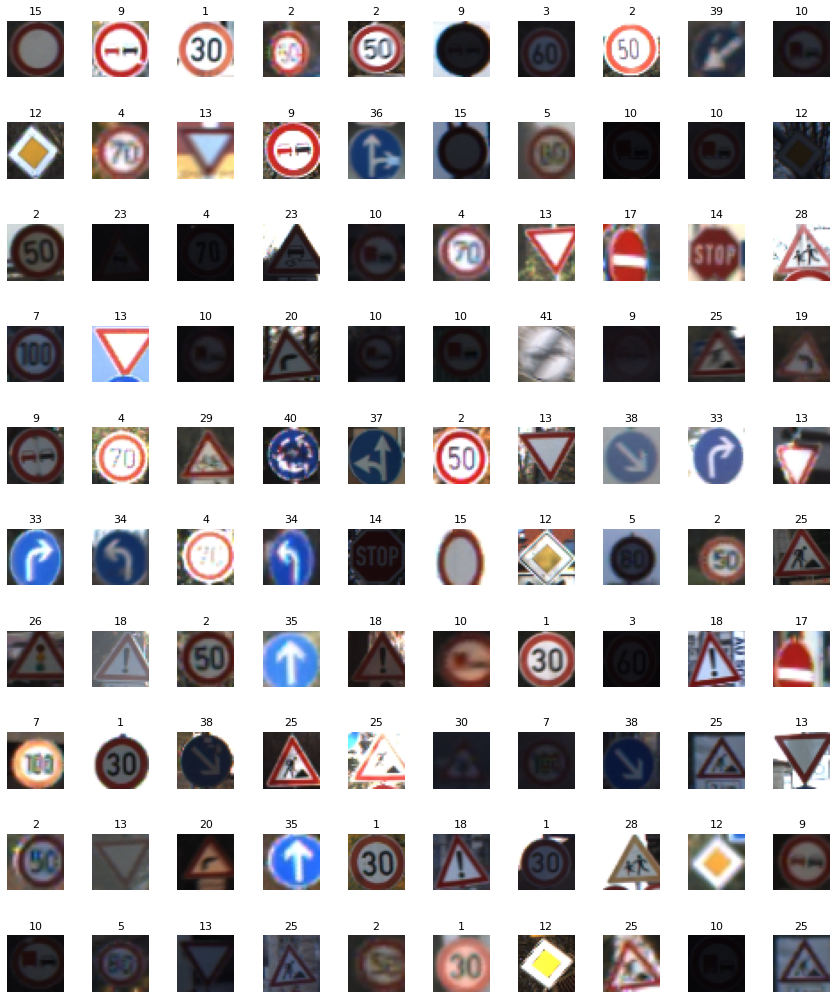
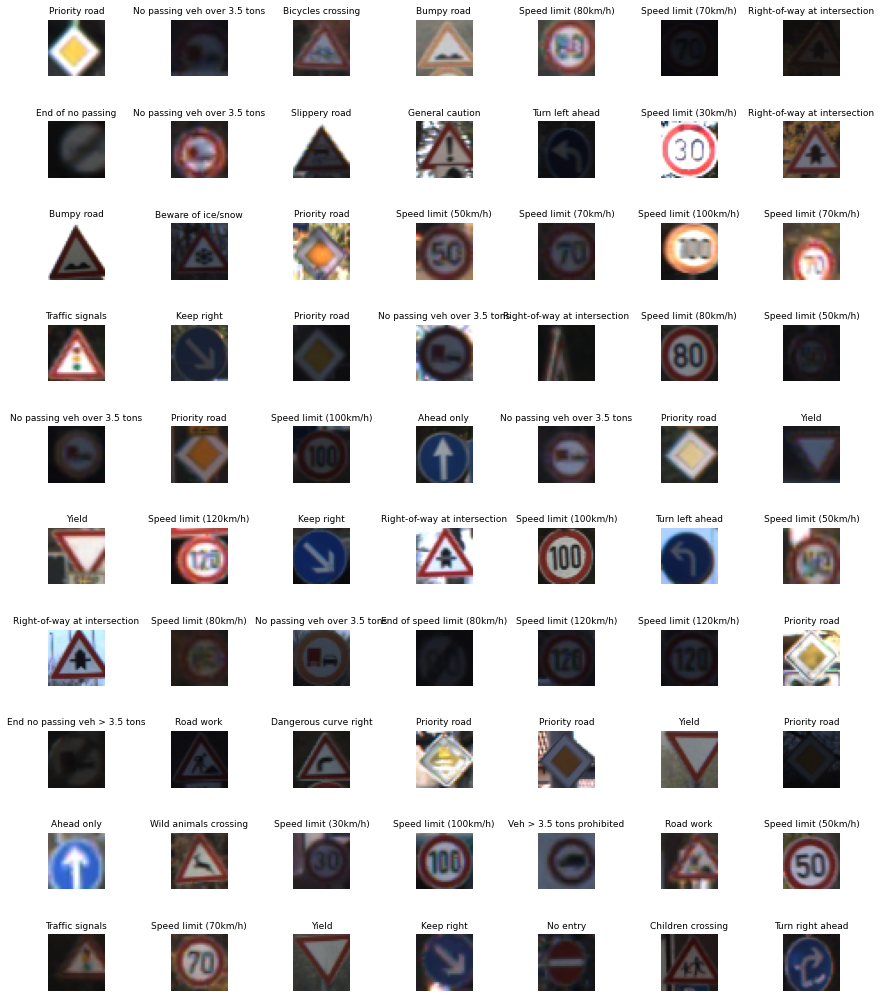
Dataset classes

diff --git a/traffic_sign_classification/main.py b/traffic_sign_classification/main.py
@@ -21,6 +21,7 @@ import tensorflow.keras.backend as K
 from lenet import LeNet
 from custom_model import custom_model
 from micronet import MicronNet
+from classes import classes
 tf.test.is_gpu_available()
 tf.test.gpu_device_name()
 
@@ -86,20 +87,19 @@ def visualizations(x_train, y_train):
         Raises an Error if Matplotlib haven't imported previously, successfully.
 
     """
-
-    W = 10
-    L = 10
-    fig, axes = plt.subplots(L, W, figsize=(15, 15))
+    W= 7
+    L=10
+    fig, axes = plt.subplots(L,W, figsize = (15,15))
     axes = axes.ravel()
     num_training = len(x_train)
-    for i in np.arange(0, W * L):
-        index = np.random.randint(0, num_training)
+    for i in np.arange(0,W*L):
+        index=np.random.randint(0, num_training)
         axes[i].imshow(x_train[index])
-        axes[i].set_title(y_train[index], fontsize=11)
+        c = y_train[index]
+        axes[i].set_title(classes[c], fontsize=9)
         axes[i].axis("off")
-    plt.subplots_adjust(bottom=0.001, top=0.9, hspace=0.8)
-
-    fig = plt.figure(figsize=(12, 4))
+    plt.subplots_adjust(bottom= 0.001,top=0.9,hspace=0.8)
+    fig = plt.figure(figsize=(12,6))
 
 
 def samples_visuals(y_train, y_val, y_test):
@@ -126,19 +126,20 @@ def samples_visuals(y_train, y_val, y_test):
     plt.show()
 
 
-def evaluation_vis(History, string):
+def evaluation_vis(History, string, epochs):
     """Function generated in order to visualize the training/validation loss and accuracy diagrams.
 
     Args:
         History (TensorFlow class): First paramater. Contains model's training history. Includes four keys {loss, val_loss, accuracy, val_accuracy}
         string (str): Second paramater. Specific value, loss or accuracy. Specifies the metric's diagram.
+        epochs (int): Third parameter, number of training epochs.
     Returns: 
         plot: If successful, plots a metrics diagram, that includes training and validation loss or accuracy graphs. 
 
         Raises an Error if Matplotlib haven't imported previously, successfully and if the string variable is incorrect.
 
     """
-    N = np.arange(0, 40)
+    N = np.arange(0, epochs)
     plt.style.use("ggplot")
     plt.figure(figsize=(8, 8))
     plt.plot(N, History.history[string], label="train " + string)
@@ -147,6 +148,7 @@ def evaluation_vis(History, string):
     plt.xlabel("Epoch")
     plt.ylabel("Loss/Val" + string)
     plt.legend(loc="lower left")
+
 
 
 def conf_matrix(y_true, pr_class):
@@ -178,13 +180,13 @@ def img_rec(x_test, pr_class, y_true):
 
         Raises an Error if Matplotlib haven't imported previously.
     """
-
-    fig, axes = plt.subplots(5, 5, figsize=(18, 18))
+    fig,axes = plt.subplots(5,5,figsize=(13,13))
     axes = axes.ravel()
-    for i in np.arange(0, 25):
+    for i in np.arange(0,25):
         axes[i].imshow(x_test[i])
-        axes[i].set_title("Prediction = {}\n True={}".format(
-            pr_class[i], y_true[i]))
+        value_pr = pr_class[i]
+        value_true = y_true[i]
+        axes[i].set_title("Prediction = {}\n True={}".format(classes[value_pr], classes[value_true] ),fontsize=8)
         axes[i].axis("off")
 
 
@@ -199,9 +201,6 @@ def eval_metrics(x_test, y_true):
 
         Raises an Error if scikit learn classification report method haven't imported previously.
     """
-
-    yhat_probs = model.predict(x_test, verbose=0)
-    yhat_classes = model.predict_classes(x_test, verbose=0)
     accuracy = accuracy_score(y_true, yhat_classes)
     print('Accuracy: %f' % accuracy)
     print(classification_report(y_true, yhat_classes))
@@ -252,15 +251,17 @@ x_train_gray = (x_train_gray - 128) / 128
 x_val_gray = (x_val_gray - 128) / 128
 x_test_gray = (x_test_gray - 128) / 128
 
-visualizations(x_train, y_train)
+visualizations(x_train, y_train, classes)
 
 print("LeNet Training begins...")
+
+eps = 40
 
 model = LeNet(32, 32, 1)
 History = model.fit(x_train_gray,
                     y_train,
                     batch_size=500,
-                    epochs=40,
+                    epochs=eps,
                     verbose=1,
                     validation_data=(x_val_gray, y_val))
 
@@ -273,34 +274,32 @@ tf.keras.utils.plot_model(
     to_file="lenet.png",
 )
 
-evaluation_vis(History, 'loss')
-evaluation_vis(History, 'accuracy')
+evaluation_vis(History, 'loss', eps)
+evaluation_vis(History, 'accuracy', eps)
 
 pr_class = model.predict_classes(x_test_gray)
 
 conf_matrix(y_test, pr_class)
-img_rec(x_test, pr_class, y_test)
-eval_metrics(x_test_gray, y_test)
+img_rec(x_test, pr_class, y_test, classes)
+
+yhat_probs = model.predict(x_test_gray, verbose=0)
+yhat_classes = model.predict_classes(x_test_gray, verbose=0)
+eval_metrics(yhat_classes, y_test)
 '''
 Custom model training & evaluation
 _________________________________________________
 '''
 print('Custom model training begins...')
 
+eps= 80
 model2 = custom_model(32, 32, 3)
-aug = ImageDataGenerator(samplewise_center=True,
-                         rotation_range=30,
-                         zoom_range=0.35,
-                         width_shift_range=0.4,
-                         height_shift_range=0.4,
-                         brightness_range=[1.5, 2.0],
-                         shear_range=0.35,
-                         fill_mode="nearest")
 
-History2 = model2.fit_generator(aug.flow(x_train, y_train, batch_size=32),
-                                validation_data=(x_val, y_val),
-                                steps_per_epoch=len(x_train) // 32,
-                                epochs=100)
+History2 = model2.fit(x_train,
+                    y_train,
+                    batch_size=500,
+                    epochs=eps,
+                    verbose=1,
+                    validation_data=(x_val, y_val))
 
 score2 = model2.evaluate(x_test, y_test, verbose=0)
 print("Test Loss: {}".format(score[0]))
@@ -308,15 +307,19 @@ print("Test Accuracy: {}".format(score[1]))
 
 tf.keras.utils.plot_model(model2, to_file="model2.png")
 
-evaluation_vis(History2, 'loss')
-evaluation_vis(History2, 'accuracy')
+evaluation_vis(History2, 'loss', eps)
+evaluation_vis(History2, 'accuracy', eps)
 
 x_test2 = tf.cast(x_test, tf.float32)
 yhat_class2 = model2.predict_classes(x_test2, verbose=0)
 
 conf_matrix(y_test, yhat_class2)
-img_rec(x_test, yhat_class2, y_test)
-eval_metrics(x_test2, y_test)
+img_rec(x_test, yhat_class2, y_test, classes)
+
+yhat_probs = model2.predict(x_test, verbose=0)
+yhat_classes = model2.predict_classes(x_test, verbose=0)
+eval_metrics(yhat_classes, y_test)
+
 '''
 Custom model training & evaluation
 _________________________________________________
@@ -394,5 +397,7 @@ x_test3 = tf.cast(x_t2, tf.float32)
 yhat_class2 = model2.predict_classes(x_test3, verbose=0)
 
 conf_matrix(y_t2, yhat_class2)
-img_rec(x_test3, yhat_class2, y_t2)
-eval_metrics(x_test3, y_t2)
+img_rec(x_test3, yhat_class2, y_t2, classes)
+yhat_probs = model3.predict(x_test3, verbose=0)
+yhat_classes = model3.predict_classes(x_test3, verbose=0)
+eval_metrics(yhat_classes, y_t2)

diff --git a/traffic_sign_classification/classes.py b/traffic_sign_classification/classes.py
@@ -1,0 +1,43 @@
+classes = { 0:'Speed limit (20km/h)',
+            1:'Speed limit (30km/h)', 
+            2:'Speed limit (50km/h)', 
+            3:'Speed limit (60km/h)', 
+            4:'Speed limit (70km/h)', 
+            5:'Speed limit (80km/h)', 
+            6:'End of speed limit (80km/h)', 
+            7:'Speed limit (100km/h)', 
+            8:'Speed limit (120km/h)', 
+            9:'No passing', 
+            10:'No passing veh over 3.5 tons', 
+            11:'Right-of-way at intersection', 
+            12:'Priority road', 
+            13:'Yield', 
+            14:'Stop', 
+            15:'No vehicles', 
+            16:'Veh > 3.5 tons prohibited', 
+            17:'No entry', 
+            18:'General caution', 
+            19:'Dangerous curve left', 
+            20:'Dangerous curve right', 
+            21:'Double curve', 
+            22:'Bumpy road', 
+            23:'Slippery road', 
+            24:'Road narrows on the right', 
+            25:'Road work', 
+            26:'Traffic signals', 
+            27:'Pedestrians', 
+            28:'Children crossing', 
+            29:'Bicycles crossing', 
+            30:'Beware of ice/snow',
+            31:'Wild animals crossing', 
+            32:'End speed + passing limits', 
+            33:'Turn right ahead', 
+            34:'Turn left ahead', 
+            35:'Ahead only', 
+            36:'Go straight or right', 
+            37:'Go straight or left', 
+            38:'Keep right', 
+            39:'Keep left', 
+            40:'Roundabout mandatory', 
+            41:'End of no passing', 
+            42:'End no passing veh > 3.5 tons' }
